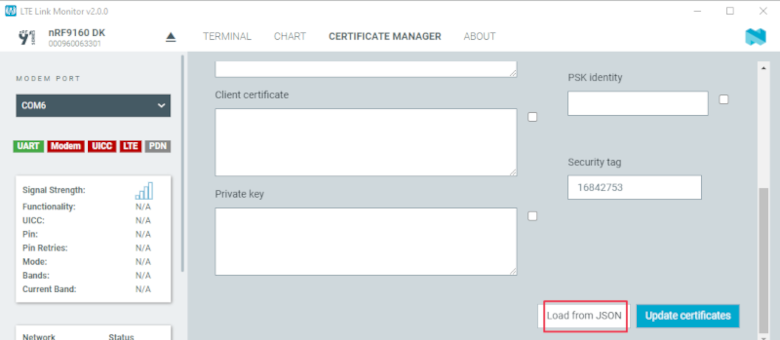
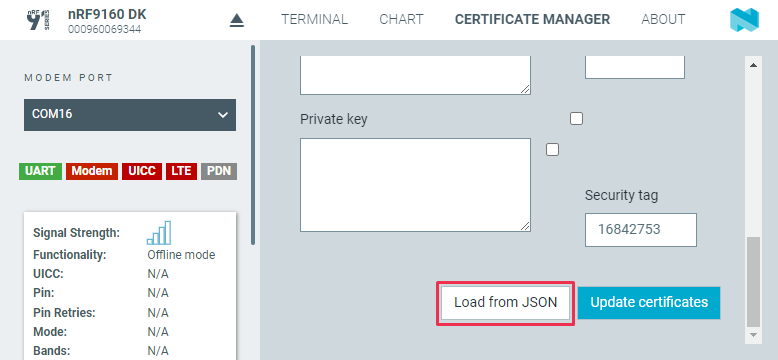
doc: Update images in Developing with nRF9160 DK
The images in Developing with nRF916 DK were not up to our quality
standards. This updates them to better ones.

diff --git a/doc/nrf/working_with_nrf/nrf91/nrf9160.rst b/doc/nrf/working_with_nrf/nrf91/nrf9160.rst
@@ -113,18 +113,17 @@ Complete the following steps to provision the certificate:
 #. If you have already inserted the SIM card into your DK, remove it before you continue.
 #. Connect the DK to the computer with a micro-USB cable, and turn it on.
 #. Click :guilabel:`Select device` and select the DK from the drop-down list.
-   You can identify the nRF9160 DK by the fact that it has three COM ports.
 
    .. figure:: images/ltelinkmonitor_selectdevice.png
-      :alt: LTE Link Monitor - COM ports
+      :alt: LTE Link Monitor - Select the nRF9160 DK
 
-      LTE Link Monitor - COM ports
+      LTE Link Monitor - Select the nRF9160 DK
 
-   If the three COM ports are not visible, press ``Ctrl+R`` in Windows or ``command+R`` in macOS to restart the Programmer application.
+   If the DK is not visible, press ``Ctrl+R`` in Windows or ``command+R`` in macOS to restart the Programmer application.
 
    The drop-down text changes to the type of the selected device, with the SEGGER ID below the name.
 
-#. Click :guilabel:`TERMINAL` in the navigation bar to switch to the terminal view.
+#. Click :guilabel:`TERMINAL` in the navigation bar to switch to the terminal view if it is not already selected.
 
    .. figure:: images/ltelinkmonitor_navigationterminal.png
       :alt: LTE Link Monitor - Terminal
